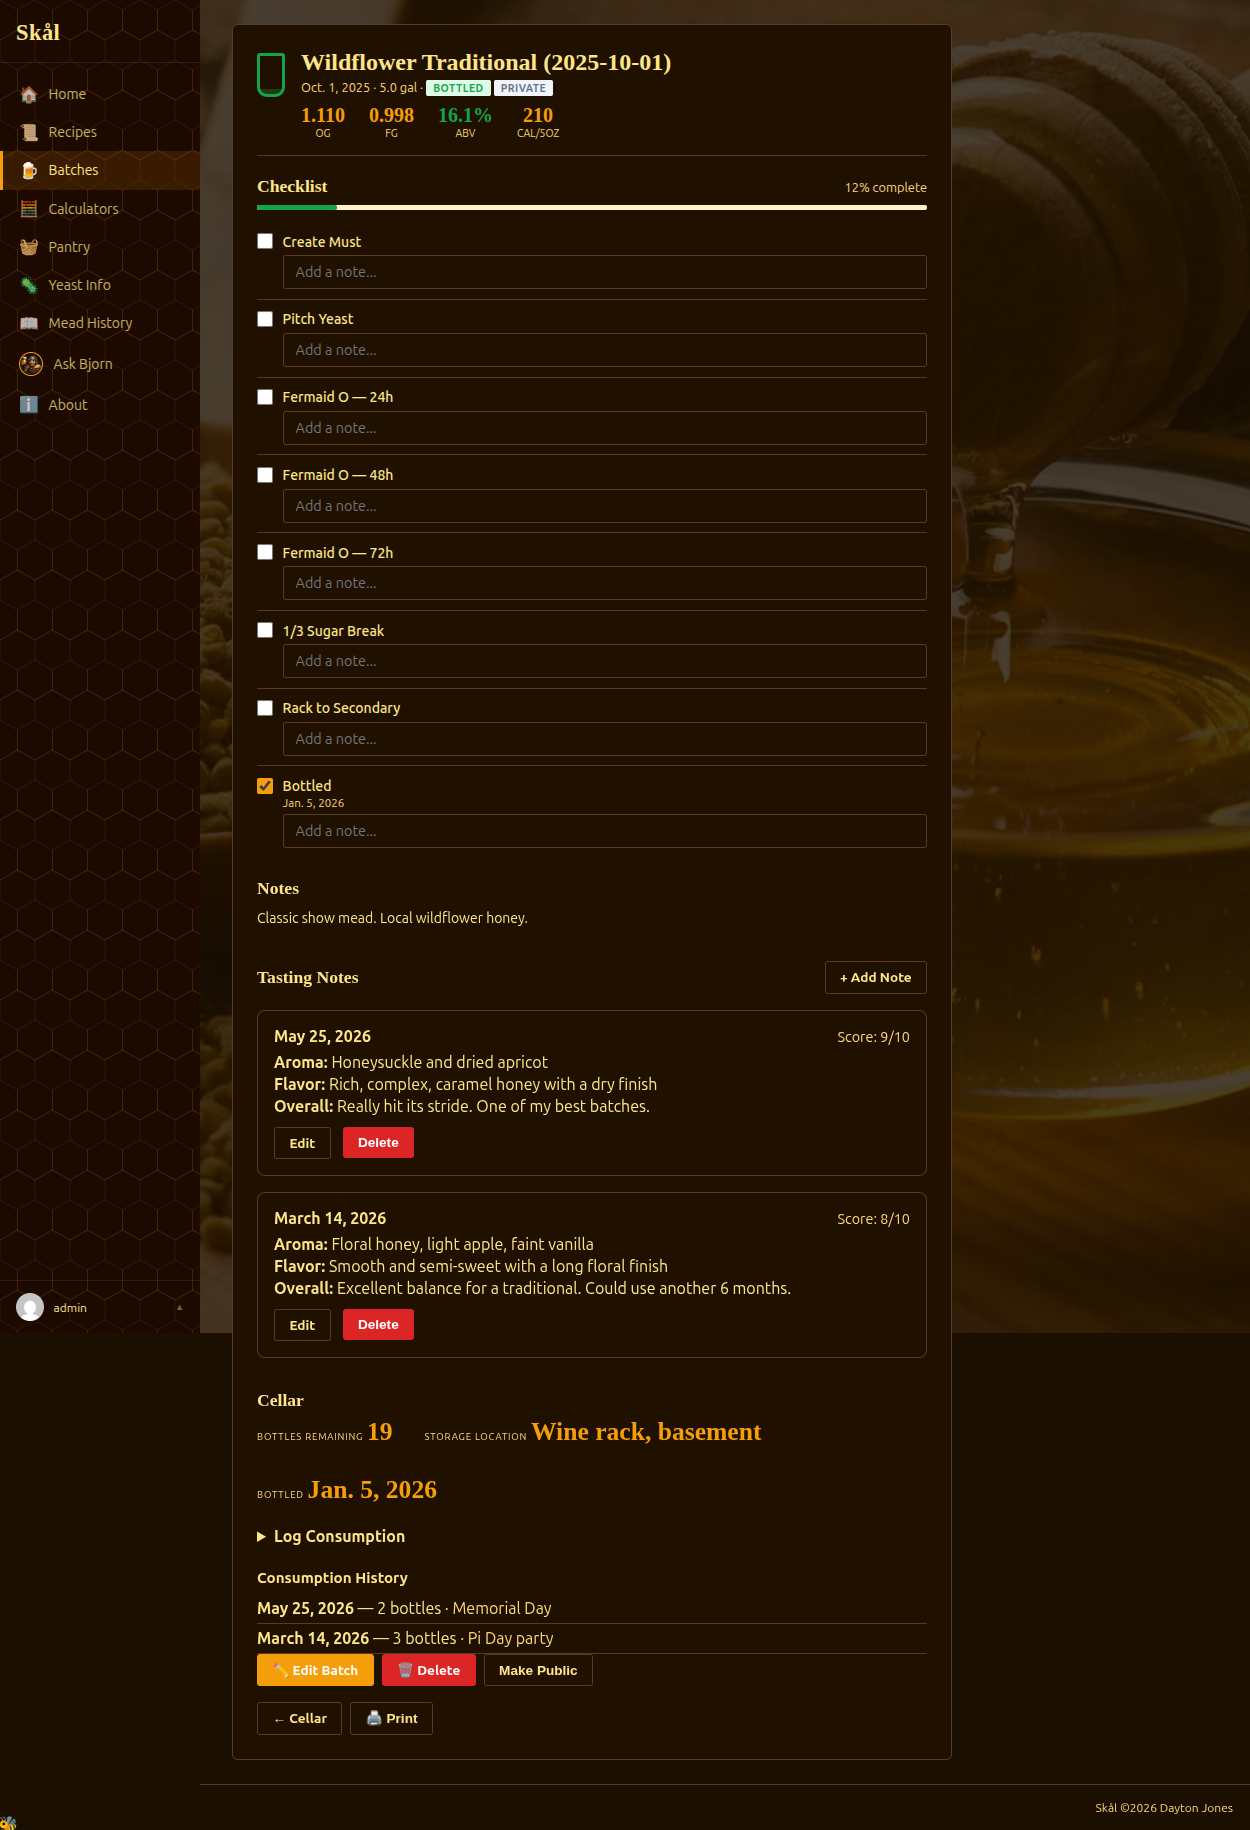
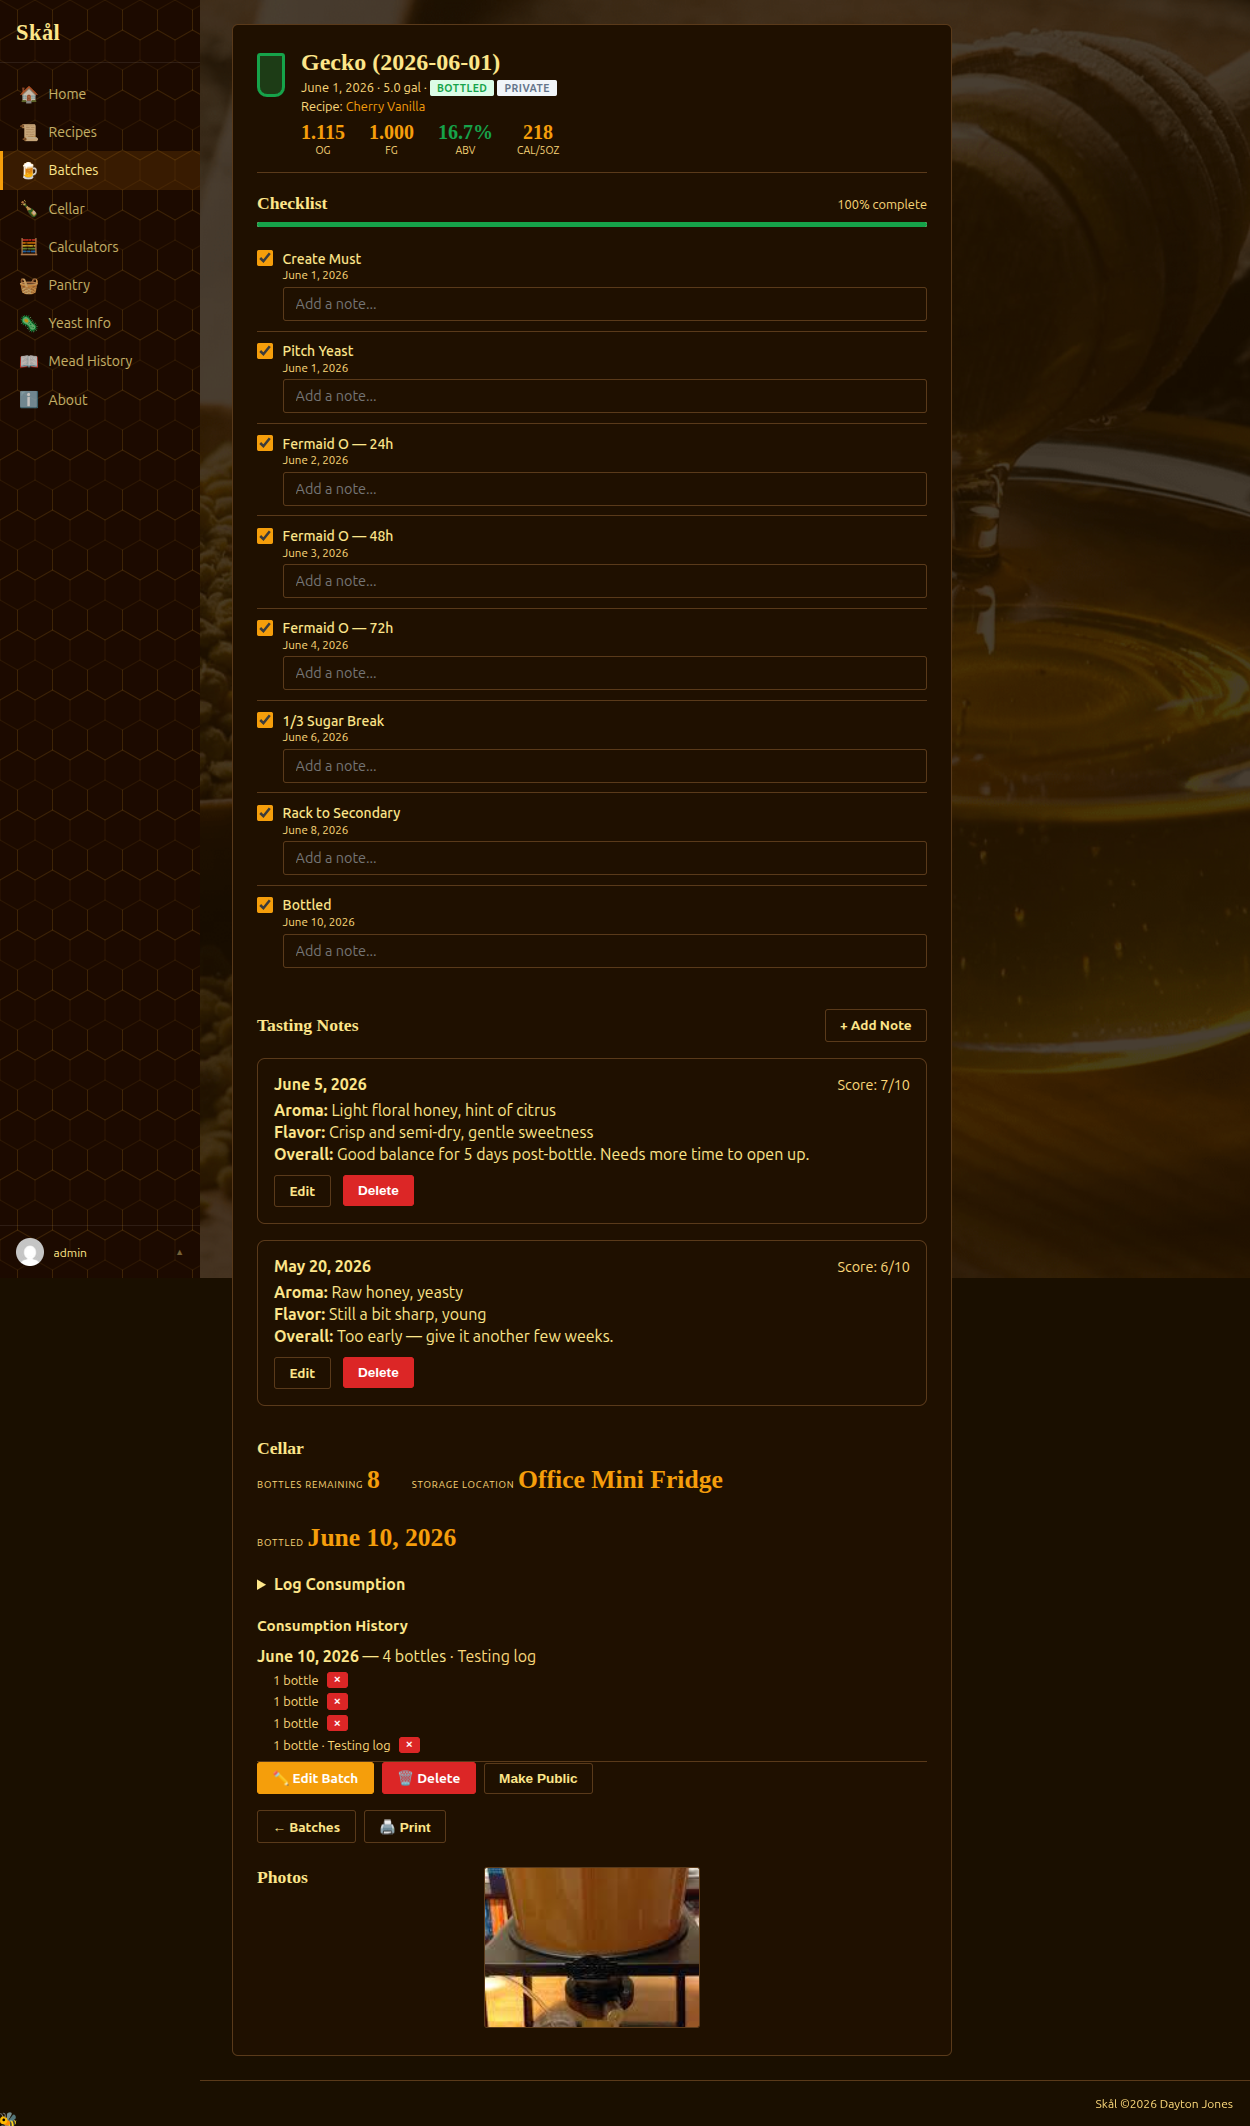
docs: update Changelog and screenshots for v2.2.0
Expanded v2.2.0 Changelog to cover cellar tracker refinements:
quick-consume, consumption delete, ABV display, heading renames,
same-day aggregation, fully-consumed batch auto-hide, install.sh
port detection, and bottle count/storage fields in edit form.

Retook cellar.png (shows "Your Cellar" heading, quick-consume column)
and tasting-notes.png (shows aggregated consumption history with
per-entry delete buttons alongside tasting notes).

diff --git a/Changelog.md b/Changelog.md
@@ -11,6 +11,17 @@ All notable changes to this project will be documented in this file.
 * **Batch email notifications** — Opt-in per-event email reminders for TOSNA nutrient additions (24h/48h/72h), gravity check (~day 4), racking to secondary, and bottling day. Configured per-user on the profile page. Delivered daily at 7am UTC via a management command (`send_batch_notifications`) scheduled by Docker cron.
 * **Tasting log** — Record tasting notes per batch with aroma, flavor, overall impressions, and a 1–10 score. Notes appear in reverse-chronological order on the batch detail page with full create/edit/delete support.
 * **Cellar tracker** — After bottling, set a bottle count and storage location on any batch. Log consumption events inline to track how many bottles remain. A dedicated `/cellar/` page lists all bottled batches at a glance with a "Last bottle!" warning when only one remains.
+* **Quick-consume** — Log a bottle directly from the cellar page without navigating away. An inline quantity field and "−" button per row posts and redirects back to `/cellar/`.
+* **Consumption delete** — Remove individual consumption entries from the batch detail page with a per-entry "×" button (POST, login-required).
+* **ABV display** — Bottled batches now show calculated ABV (alternate formula) instead of FG on the home dashboard, batch list, and cellar view. Active batches continue to show OG → FG.
+
+### Changed
+
+* Batch list page heading corrected from "Your Cellar" to "Your Batches"; cellar page heading updated to "Your Cellar".
+* Same-day consumption entries are aggregated in the batch detail history: total quantity on the summary row, individual entries with delete buttons below.
+* Cellar view automatically hides batches once `bottles_remaining` reaches zero.
+* Bottle count and storage location fields are now visible in the batch edit form under a dedicated "Cellar" section.
+* `install.sh` detects ports already in use and auto-suggests the next free one, looping until the user confirms.
 
 ---
 
